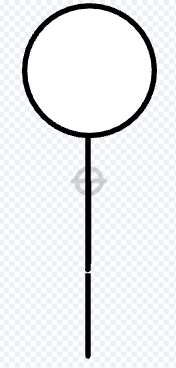
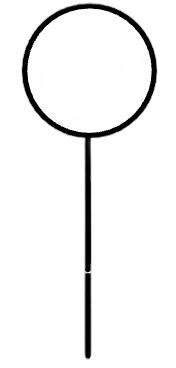
background removed

diff --git a/Assets/images/Stickman_old/remove.bg.py b/Assets/images/Stickman_old/remove.bg.py
@@ -1,0 +1,43 @@
+import os
+from rembg import remove
+from PIL import Image
+
+# Root folder containing all animation folders (current directory)
+root_dir = os.path.dirname(os.path.abspath(__file__))
+
+# List of subfolders to process
+folders = ["Jump", "standing", "Stickman walk"]
+
+# Output folder to store no-background images
+output_root = os.path.join(root_dir, "no_bg")
+os.makedirs(output_root, exist_ok=True)
+
+for folder in folders:
+    input_path = os.path.join(root_dir, folder)
+    output_path = os.path.join(output_root, folder)
+    
+    # Check if input folder exists
+    if not os.path.exists(input_path):
+        print(f"❌ Folder not found: {input_path}")
+        continue
+        
+    os.makedirs(output_path, exist_ok=True)
+    print(f"📁 Processing folder: {folder}")
+
+    for filename in os.listdir(input_path):
+        if filename.lower().endswith((".png", ".jpg", ".jpeg")):
+            input_file = os.path.join(input_path, filename)
+            output_file = os.path.join(output_path, filename)
+
+            try:
+                with Image.open(input_file) as img:
+                    print(f"🔄 Processing: {filename}")
+                    img_no_bg = remove(img)
+                    # Save as PNG to preserve transparency
+                    output_file = os.path.splitext(output_file)[0] + ".png"
+                    img_no_bg.save(output_file)
+                    print(f"✅ Processed: {output_file}")
+            except Exception as e:
+                print(f"❌ Error processing {filename}: {str(e)}")
+
+print("🎉 Background removal completed!")
